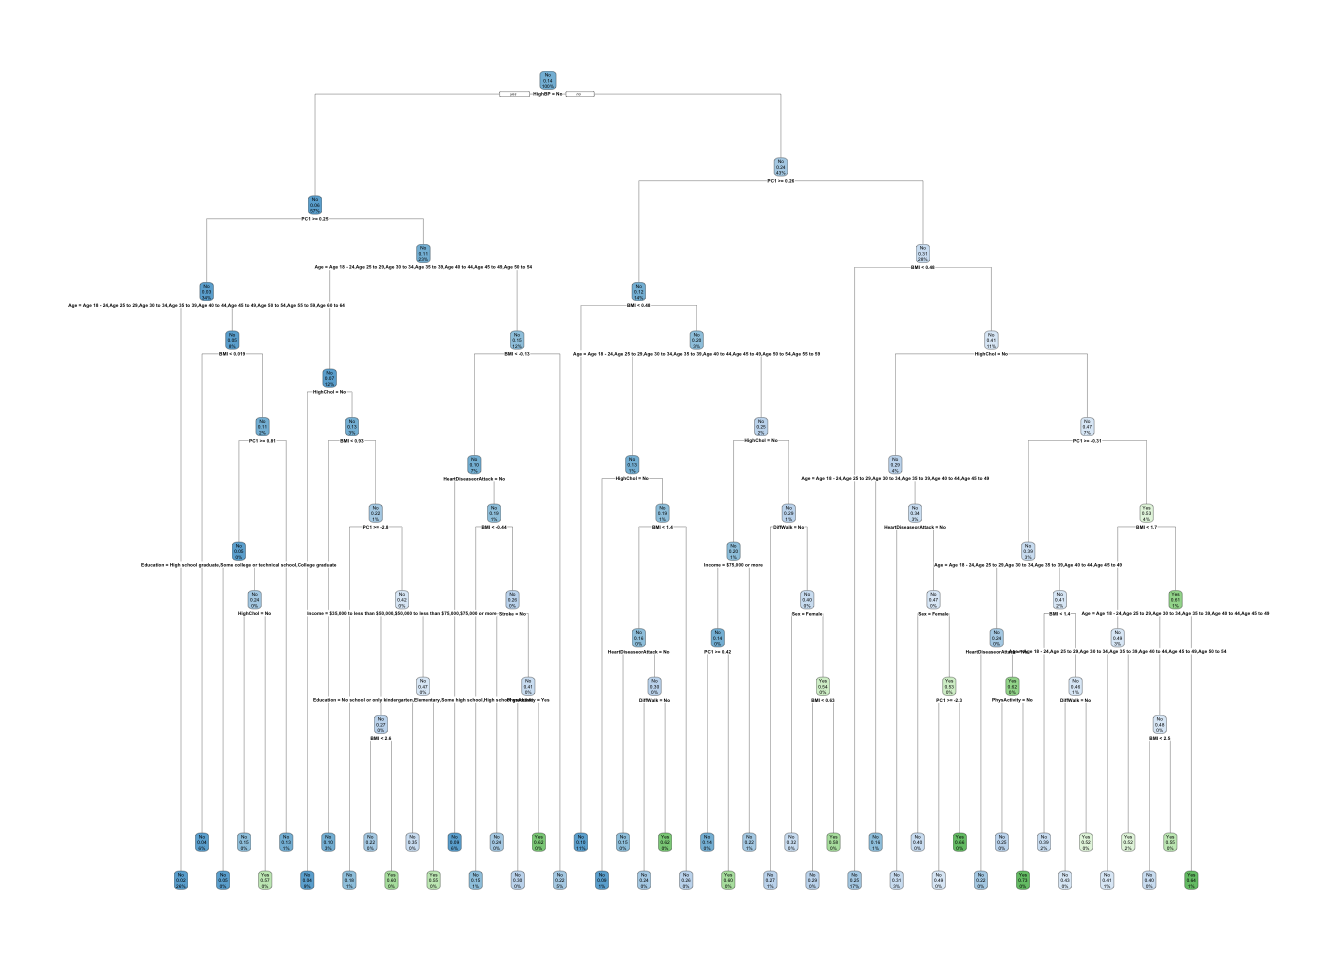
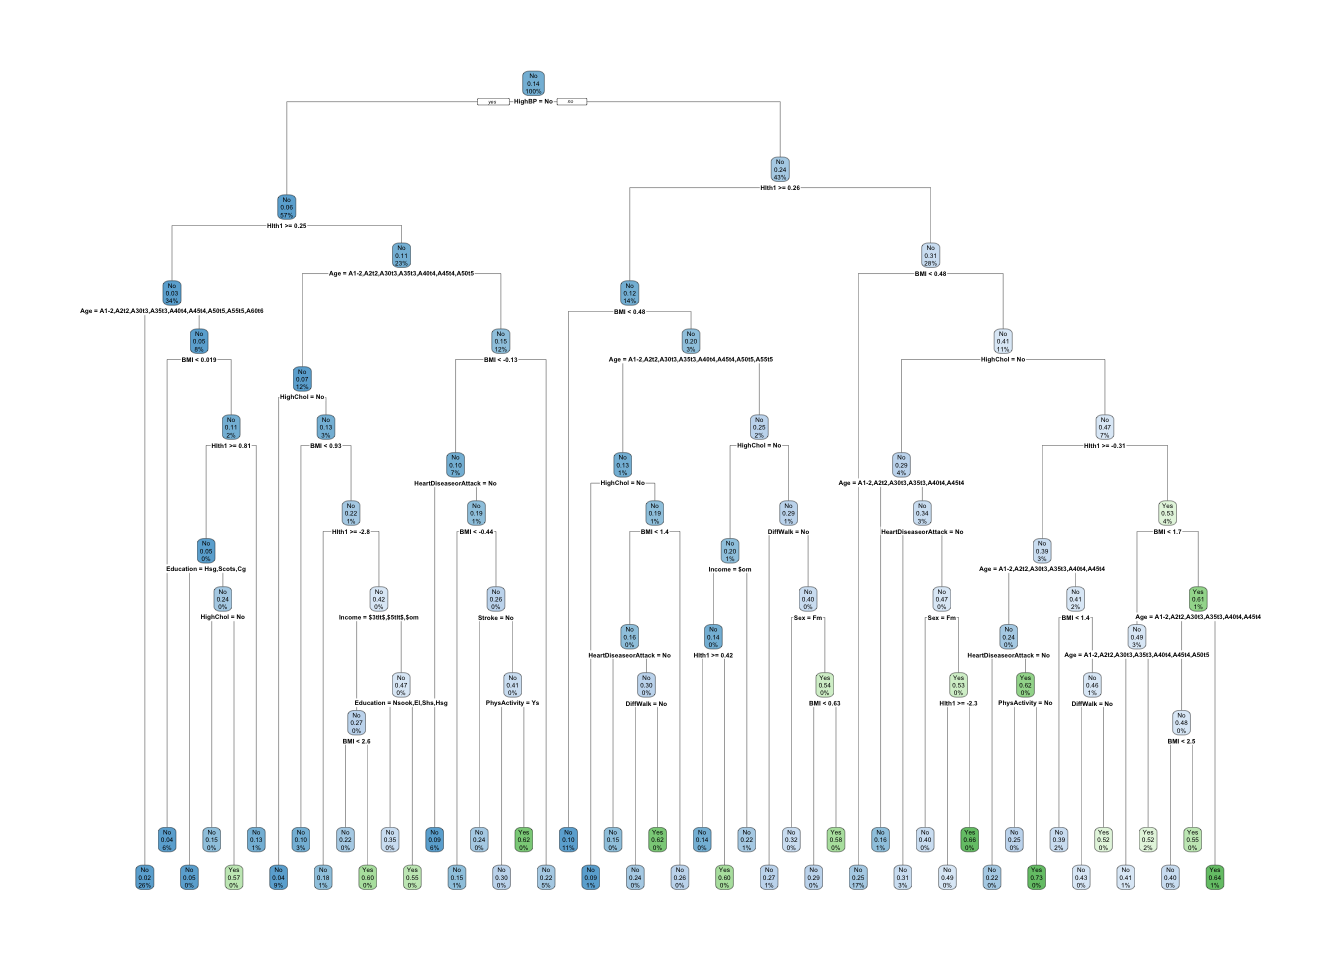
initial models

diff --git a/docs/Modeling.html b/docs/Modeling.html
@@ -207,7 +207,7 @@ pre > code.sourceCode > span > a:first-child::before { text-decoration: underlin
 <span id="cb6-2"><a href="#cb6-2" aria-hidden="true" tabindex="-1"></a>  <span class="fu">recipe</span>(Diabetes <span class="sc">~</span> ., <span class="at">data =</span> diabetes_train) <span class="sc">|&gt;</span></span>
 <span id="cb6-3"><a href="#cb6-3" aria-hidden="true" tabindex="-1"></a>  <span class="fu">step_rm</span>(Fruits<span class="sc">:</span>NoDocbcCost) <span class="sc">|&gt;</span></span>
 <span id="cb6-4"><a href="#cb6-4" aria-hidden="true" tabindex="-1"></a>  <span class="fu">step_normalize</span>(<span class="fu">all_numeric_predictors</span>()) <span class="sc">|&gt;</span></span>
-<span id="cb6-5"><a href="#cb6-5" aria-hidden="true" tabindex="-1"></a>  <span class="fu">step_pca</span>(<span class="fu">ends_with</span>(<span class="st">"Hlth"</span>), <span class="at">num_comp =</span> <span class="dv">1</span>)</span></code><button title="Copy to Clipboard" class="code-copy-button"><i class="bi"></i></button></pre></div>
+<span id="cb6-5"><a href="#cb6-5" aria-hidden="true" tabindex="-1"></a>  <span class="fu">step_pca</span>(<span class="fu">ends_with</span>(<span class="st">"Hlth"</span>), <span class="at">num_comp =</span> <span class="dv">1</span>, <span class="at">prefix =</span> <span class="st">"Hlth"</span>)</span></code><button title="Copy to Clipboard" class="code-copy-button"><i class="bi"></i></button></pre></div>
 </div>
 <div class="cell">
 <div class="sourceCode cell-code" id="cb7"><pre class="sourceCode r code-with-copy"><code class="sourceCode r"><span id="cb7-1"><a href="#cb7-1" aria-hidden="true" tabindex="-1"></a>diabetes_rec <span class="sc">|&gt;</span></span>
@@ -229,7 +229,7 @@ pre > code.sourceCode > span > a:first-child::before { text-decoration: underlin
 10 Yes    Yes      Yes        1.47   Yes    No     No                  
 # ℹ 177,565 more rows
 # ℹ 8 more variables: PhysActivity &lt;fct&gt;, DiffWalk &lt;fct&gt;, Sex &lt;fct&gt;, Age &lt;ord&gt;,
-#   Education &lt;ord&gt;, Income &lt;ord&gt;, Diabetes &lt;fct&gt;, PC1 &lt;dbl&gt;</code></pre>
+#   Education &lt;ord&gt;, Income &lt;ord&gt;, Diabetes &lt;fct&gt;, Hlth1 &lt;dbl&gt;</code></pre>
 </div>
 </div>
 <p>Define metrics set.</p>
@@ -353,7 +353,7 @@ pre > code.sourceCode > span > a:first-child::before { text-decoration: underlin
 <div class="sourceCode cell-code" id="cb20"><pre class="sourceCode r code-with-copy"><code class="sourceCode r"><span id="cb20-1"><a href="#cb20-1" aria-hidden="true" tabindex="-1"></a>diabetes_tree_final_fit <span class="sc">|&gt;</span></span>
 <span id="cb20-2"><a href="#cb20-2" aria-hidden="true" tabindex="-1"></a>  <span class="fu">extract_workflow</span>() <span class="sc">|&gt;</span></span>
 <span id="cb20-3"><a href="#cb20-3" aria-hidden="true" tabindex="-1"></a>  <span class="fu">extract_fit_engine</span>() <span class="sc">|&gt;</span></span>
-<span id="cb20-4"><a href="#cb20-4" aria-hidden="true" tabindex="-1"></a>  rpart.plot<span class="sc">::</span><span class="fu">rpart.plot</span>(<span class="at">roundint =</span> F)</span></code><button title="Copy to Clipboard" class="code-copy-button"><i class="bi"></i></button></pre></div>
+<span id="cb20-4"><a href="#cb20-4" aria-hidden="true" tabindex="-1"></a>  rpart.plot<span class="sc">::</span><span class="fu">rpart.plot</span>(<span class="at">roundint =</span> F, <span class="at">faclen =</span> <span class="dv">2</span>)</span></code><button title="Copy to Clipboard" class="code-copy-button"><i class="bi"></i></button></pre></div>
 <div class="cell-output-display">
 <div>
 <figure class="figure">
@@ -405,8 +405,8 @@ pre > code.sourceCode > span > a:first-child::before { text-decoration: underlin
 <span id="cb25-4"><a href="#cb25-4" aria-hidden="true" tabindex="-1"></a></span>
 <span id="cb25-5"><a href="#cb25-5" aria-hidden="true" tabindex="-1"></a>rf_fits <span class="ot">&lt;-</span></span>
 <span id="cb25-6"><a href="#cb25-6" aria-hidden="true" tabindex="-1"></a>  diabetes_rf_wfl <span class="sc">|&gt;</span> </span>
-<span id="cb25-7"><a href="#cb25-7" aria-hidden="true" tabindex="-1"></a>  <span class="fu">tune_random</span>(<span class="at">resamples =</span> diabetes_5_fold, <span class="at">grid =</span> <span class="dv">5</span>,</span>
-<span id="cb25-8"><a href="#cb25-8" aria-hidden="true" tabindex="-1"></a>              <span class="at">metrics =</span> <span class="fu">metric_set</span>(mn_log_loss))</span>
+<span id="cb25-7"><a href="#cb25-7" aria-hidden="true" tabindex="-1"></a>  <span class="fu">tune_grid</span>(<span class="at">resamples =</span> diabetes_5_fold, <span class="at">grid =</span> <span class="dv">5</span>,</span>
+<span id="cb25-8"><a href="#cb25-8" aria-hidden="true" tabindex="-1"></a>            <span class="at">metrics =</span> <span class="fu">metric_set</span>(mn_log_loss))</span>
 <span id="cb25-9"><a href="#cb25-9" aria-hidden="true" tabindex="-1"></a></span>
 <span id="cb25-10"><a href="#cb25-10" aria-hidden="true" tabindex="-1"></a><span class="fu">plan</span>(sequential)</span></code><button title="Copy to Clipboard" class="code-copy-button"><i class="bi"></i></button></pre></div>
 </div>
@@ -416,52 +416,109 @@ pre > code.sourceCode > span > a:first-child::before { text-decoration: underlin
 <span id="cb26-2"><a href="#cb26-2" aria-hidden="true" tabindex="-1"></a>  <span class="fu">collect_metrics</span>() <span class="sc">|&gt;</span></span>
 <span id="cb26-3"><a href="#cb26-3" aria-hidden="true" tabindex="-1"></a>  <span class="fu">filter</span>(.metric <span class="sc">==</span> <span class="st">"mn_log_loss"</span>) <span class="sc">|&gt;</span></span>
 <span id="cb26-4"><a href="#cb26-4" aria-hidden="true" tabindex="-1"></a>  <span class="fu">arrange</span>(mean)</span></code><button title="Copy to Clipboard" class="code-copy-button"><i class="bi"></i></button></pre></div>
+<div class="cell-output cell-output-stdout">
+<pre><code># A tibble: 5 × 8
+   mtry min_n .metric     .estimator  mean     n std_err .config             
+  &lt;int&gt; &lt;int&gt; &lt;chr&gt;       &lt;chr&gt;      &lt;dbl&gt; &lt;int&gt;   &lt;dbl&gt; &lt;chr&gt;               
+1     3     3 mn_log_loss binary     0.321     5 0.00164 Preprocessor1_Model3
+2     5    22 mn_log_loss binary     0.325     5 0.00168 Preprocessor1_Model4
+3    11    38 mn_log_loss binary     0.331     5 0.00167 Preprocessor1_Model1
+4     7    17 mn_log_loss binary     0.333     5 0.00126 Preprocessor1_Model5
+5    13    27 mn_log_loss binary     0.338     5 0.00203 Preprocessor1_Model2</code></pre>
+</div>
 </div>
 <p>Identify parameter combination with lowest Log Loss.</p>
 <div class="cell">
-<div class="sourceCode cell-code" id="cb27"><pre class="sourceCode r code-with-copy"><code class="sourceCode r"><span id="cb27-1"><a href="#cb27-1" aria-hidden="true" tabindex="-1"></a>rf_best_params <span class="ot">&lt;-</span></span>
-<span id="cb27-2"><a href="#cb27-2" aria-hidden="true" tabindex="-1"></a>  rf_fits <span class="sc">|&gt;</span></span>
-<span id="cb27-3"><a href="#cb27-3" aria-hidden="true" tabindex="-1"></a>  <span class="fu">select_best</span>(<span class="at">metric =</span> <span class="st">"mn_log_loss"</span>)</span>
-<span id="cb27-4"><a href="#cb27-4" aria-hidden="true" tabindex="-1"></a>rf_best_params</span></code><button title="Copy to Clipboard" class="code-copy-button"><i class="bi"></i></button></pre></div>
+<div class="sourceCode cell-code" id="cb28"><pre class="sourceCode r code-with-copy"><code class="sourceCode r"><span id="cb28-1"><a href="#cb28-1" aria-hidden="true" tabindex="-1"></a>rf_best_params <span class="ot">&lt;-</span></span>
+<span id="cb28-2"><a href="#cb28-2" aria-hidden="true" tabindex="-1"></a>  rf_fits <span class="sc">|&gt;</span></span>
+<span id="cb28-3"><a href="#cb28-3" aria-hidden="true" tabindex="-1"></a>  <span class="fu">select_best</span>(<span class="at">metric =</span> <span class="st">"mn_log_loss"</span>)</span>
+<span id="cb28-4"><a href="#cb28-4" aria-hidden="true" tabindex="-1"></a>rf_best_params</span></code><button title="Copy to Clipboard" class="code-copy-button"><i class="bi"></i></button></pre></div>
+<div class="cell-output cell-output-stdout">
+<pre><code># A tibble: 1 × 3
+   mtry min_n .config             
+  &lt;int&gt; &lt;int&gt; &lt;chr&gt;               
+1     3     3 Preprocessor1_Model3</code></pre>
+</div>
 </div>
 <p>Using the best model, fit the model to the entire training data set using the <code>last_fit()</code> function. Compute the Log Loss and Accuracy metrics on the test set.</p>
 <div class="cell">
-<div class="sourceCode cell-code" id="cb28"><pre class="sourceCode r code-with-copy"><code class="sourceCode r"><span id="cb28-1"><a href="#cb28-1" aria-hidden="true" tabindex="-1"></a>diabetes_rf_final_fit <span class="ot">&lt;-</span></span>
-<span id="cb28-2"><a href="#cb28-2" aria-hidden="true" tabindex="-1"></a>  diabetes_rf_wfl <span class="sc">|&gt;</span></span>
-<span id="cb28-3"><a href="#cb28-3" aria-hidden="true" tabindex="-1"></a>  <span class="fu">finalize_workflow</span>(rf_best_params) <span class="sc">|&gt;</span></span>
-<span id="cb28-4"><a href="#cb28-4" aria-hidden="true" tabindex="-1"></a>  <span class="fu">last_fit</span>(<span class="at">split =</span> diabetes_split, <span class="at">metrics =</span> metrics_set)</span>
-<span id="cb28-5"><a href="#cb28-5" aria-hidden="true" tabindex="-1"></a></span>
-<span id="cb28-6"><a href="#cb28-6" aria-hidden="true" tabindex="-1"></a>diabetes_rf_final_fit <span class="sc">|&gt;</span></span>
-<span id="cb28-7"><a href="#cb28-7" aria-hidden="true" tabindex="-1"></a>  <span class="fu">collect_metrics</span>()</span></code><button title="Copy to Clipboard" class="code-copy-button"><i class="bi"></i></button></pre></div>
+<div class="sourceCode cell-code" id="cb30"><pre class="sourceCode r code-with-copy"><code class="sourceCode r"><span id="cb30-1"><a href="#cb30-1" aria-hidden="true" tabindex="-1"></a>diabetes_rf_final_fit <span class="ot">&lt;-</span></span>
+<span id="cb30-2"><a href="#cb30-2" aria-hidden="true" tabindex="-1"></a>  diabetes_rf_wfl <span class="sc">|&gt;</span></span>
+<span id="cb30-3"><a href="#cb30-3" aria-hidden="true" tabindex="-1"></a>  <span class="fu">finalize_workflow</span>(rf_best_params) <span class="sc">|&gt;</span></span>
+<span id="cb30-4"><a href="#cb30-4" aria-hidden="true" tabindex="-1"></a>  <span class="fu">last_fit</span>(<span class="at">split =</span> diabetes_split, <span class="at">metrics =</span> metrics_set)</span>
+<span id="cb30-5"><a href="#cb30-5" aria-hidden="true" tabindex="-1"></a></span>
+<span id="cb30-6"><a href="#cb30-6" aria-hidden="true" tabindex="-1"></a>diabetes_rf_final_fit <span class="sc">|&gt;</span></span>
+<span id="cb30-7"><a href="#cb30-7" aria-hidden="true" tabindex="-1"></a>  <span class="fu">collect_metrics</span>()</span></code><button title="Copy to Clipboard" class="code-copy-button"><i class="bi"></i></button></pre></div>
+<div class="cell-output cell-output-stdout">
+<pre><code># A tibble: 5 × 4
+  .metric     .estimator .estimate .config             
+  &lt;chr&gt;       &lt;chr&gt;          &lt;dbl&gt; &lt;chr&gt;               
+1 accuracy    binary         0.864 Preprocessor1_Model1
+2 spec        binary         0.126 Preprocessor1_Model1
+3 sens        binary         0.983 Preprocessor1_Model1
+4 mn_log_loss binary         0.321 Preprocessor1_Model1
+5 roc_auc     binary         0.817 Preprocessor1_Model1</code></pre>
+</div>
 </div>
 <p>Produce a variable importance plot.</p>
 <div class="cell">
-<div class="sourceCode cell-code" id="cb29"><pre class="sourceCode r code-with-copy"><code class="sourceCode r"><span id="cb29-1"><a href="#cb29-1" aria-hidden="true" tabindex="-1"></a>diabetes_rf_final_model <span class="ot">&lt;-</span> <span class="fu">extract_fit_engine</span>(diabetes_rf_final_fit) </span>
-<span id="cb29-2"><a href="#cb29-2" aria-hidden="true" tabindex="-1"></a>diabetes_rf_final_model <span class="sc">|&gt;</span></span>
-<span id="cb29-3"><a href="#cb29-3" aria-hidden="true" tabindex="-1"></a>  <span class="fu">vip</span>(<span class="at">num_features =</span> <span class="dv">22</span>)</span></code><button title="Copy to Clipboard" class="code-copy-button"><i class="bi"></i></button></pre></div>
+<div class="sourceCode cell-code" id="cb32"><pre class="sourceCode r code-with-copy"><code class="sourceCode r"><span id="cb32-1"><a href="#cb32-1" aria-hidden="true" tabindex="-1"></a>diabetes_rf_final_model <span class="ot">&lt;-</span> <span class="fu">extract_fit_engine</span>(diabetes_rf_final_fit) </span>
+<span id="cb32-2"><a href="#cb32-2" aria-hidden="true" tabindex="-1"></a>diabetes_rf_final_model <span class="sc">|&gt;</span></span>
+<span id="cb32-3"><a href="#cb32-3" aria-hidden="true" tabindex="-1"></a>  <span class="fu">vip</span>(<span class="at">num_features =</span> <span class="dv">22</span>)</span></code><button title="Copy to Clipboard" class="code-copy-button"><i class="bi"></i></button></pre></div>
+<div class="cell-output-display">
+<div>
+<figure class="figure">
+<p><img src="Modeling_files/figure-html/unnamed-chunk-23-1.png" class="img-fluid figure-img" width="672"></p>
+</figure>
+</div>
+</div>
 </div>
 <p>Collect final Log Loss and Accuracy metrics for best Random Forest model.</p>
 <div class="cell">
-<div class="sourceCode cell-code" id="cb30"><pre class="sourceCode r code-with-copy"><code class="sourceCode r"><span id="cb30-1"><a href="#cb30-1" aria-hidden="true" tabindex="-1"></a>rf_metrics <span class="ot">&lt;-</span></span>
-<span id="cb30-2"><a href="#cb30-2" aria-hidden="true" tabindex="-1"></a>  diabetes_rf_final_fit <span class="sc">|&gt;</span></span>
-<span id="cb30-3"><a href="#cb30-3" aria-hidden="true" tabindex="-1"></a>  <span class="fu">collect_metrics</span>()</span>
-<span id="cb30-4"><a href="#cb30-4" aria-hidden="true" tabindex="-1"></a>rf_metrics</span></code><button title="Copy to Clipboard" class="code-copy-button"><i class="bi"></i></button></pre></div>
+<div class="sourceCode cell-code" id="cb33"><pre class="sourceCode r code-with-copy"><code class="sourceCode r"><span id="cb33-1"><a href="#cb33-1" aria-hidden="true" tabindex="-1"></a>rf_metrics <span class="ot">&lt;-</span></span>
+<span id="cb33-2"><a href="#cb33-2" aria-hidden="true" tabindex="-1"></a>  diabetes_rf_final_fit <span class="sc">|&gt;</span></span>
+<span id="cb33-3"><a href="#cb33-3" aria-hidden="true" tabindex="-1"></a>  <span class="fu">collect_metrics</span>()</span>
+<span id="cb33-4"><a href="#cb33-4" aria-hidden="true" tabindex="-1"></a>rf_metrics</span></code><button title="Copy to Clipboard" class="code-copy-button"><i class="bi"></i></button></pre></div>
+<div class="cell-output cell-output-stdout">
+<pre><code># A tibble: 5 × 4
+  .metric     .estimator .estimate .config             
+  &lt;chr&gt;       &lt;chr&gt;          &lt;dbl&gt; &lt;chr&gt;               
+1 accuracy    binary         0.864 Preprocessor1_Model1
+2 spec        binary         0.126 Preprocessor1_Model1
+3 sens        binary         0.983 Preprocessor1_Model1
+4 mn_log_loss binary         0.321 Preprocessor1_Model1
+5 roc_auc     binary         0.817 Preprocessor1_Model1</code></pre>
+</div>
 </div>
 </section>
 <section id="select-the-best-model" class="level2">
 <h2 class="anchored" data-anchor-id="select-the-best-model">Select the Best Model</h2>
 <p>Compare all final models using both Log Loss and ROC AUC</p>
 <div class="cell">
-<div class="sourceCode cell-code" id="cb31"><pre class="sourceCode r code-with-copy"><code class="sourceCode r"><span id="cb31-1"><a href="#cb31-1" aria-hidden="true" tabindex="-1"></a><span class="fu">rbind</span>(mlr_metrics, lasso_metrics, tree_metrics, bag_metrics, rf_metrics) <span class="sc">|&gt;</span></span>
-<span id="cb31-2"><a href="#cb31-2" aria-hidden="true" tabindex="-1"></a>  <span class="fu">filter</span>(.metric <span class="sc">==</span> <span class="st">"mn_log_loss"</span>) <span class="sc">|&gt;</span></span>
-<span id="cb31-3"><a href="#cb31-3" aria-hidden="true" tabindex="-1"></a>  <span class="fu">mutate</span>(<span class="at">model =</span> <span class="fu">c</span>(<span class="st">"Classification Tree"</span>, <span class="st">"Random Forest"</span>)) <span class="sc">|&gt;</span></span>
-<span id="cb31-4"><a href="#cb31-4" aria-hidden="true" tabindex="-1"></a>  <span class="fu">select</span>(model, <span class="st">"mean_mn_log_loss"</span> <span class="ot">=</span> .estimate)</span></code><button title="Copy to Clipboard" class="code-copy-button"><i class="bi"></i></button></pre></div>
+<div class="sourceCode cell-code" id="cb35"><pre class="sourceCode r code-with-copy"><code class="sourceCode r"><span id="cb35-1"><a href="#cb35-1" aria-hidden="true" tabindex="-1"></a><span class="fu">rbind</span>(tree_metrics, rf_metrics) <span class="sc">|&gt;</span></span>
+<span id="cb35-2"><a href="#cb35-2" aria-hidden="true" tabindex="-1"></a>  <span class="fu">filter</span>(.metric <span class="sc">==</span> <span class="st">"mn_log_loss"</span>) <span class="sc">|&gt;</span></span>
+<span id="cb35-3"><a href="#cb35-3" aria-hidden="true" tabindex="-1"></a>  <span class="fu">mutate</span>(<span class="at">model =</span> <span class="fu">c</span>(<span class="st">"Classification Tree"</span>, <span class="st">"Random Forest"</span>)) <span class="sc">|&gt;</span></span>
+<span id="cb35-4"><a href="#cb35-4" aria-hidden="true" tabindex="-1"></a>  <span class="fu">select</span>(model, <span class="st">"mean_mn_log_loss"</span> <span class="ot">=</span> .estimate)</span></code><button title="Copy to Clipboard" class="code-copy-button"><i class="bi"></i></button></pre></div>
+<div class="cell-output cell-output-stdout">
+<pre><code># A tibble: 2 × 2
+  model               mean_mn_log_loss
+  &lt;chr&gt;                          &lt;dbl&gt;
+1 Classification Tree            0.335
+2 Random Forest                  0.321</code></pre>
+</div>
 </div>
 <div class="cell">
-<div class="sourceCode cell-code" id="cb32"><pre class="sourceCode r code-with-copy"><code class="sourceCode r"><span id="cb32-1"><a href="#cb32-1" aria-hidden="true" tabindex="-1"></a><span class="fu">rbind</span>(mlr_metrics, lasso_metrics, tree_metrics, bag_metrics, rf_metrics) <span class="sc">|&gt;</span></span>
-<span id="cb32-2"><a href="#cb32-2" aria-hidden="true" tabindex="-1"></a>  <span class="fu">filter</span>(.metric <span class="sc">==</span> <span class="st">"roc_auc"</span>) <span class="sc">|&gt;</span></span>
-<span id="cb32-3"><a href="#cb32-3" aria-hidden="true" tabindex="-1"></a>  <span class="fu">mutate</span>(<span class="at">model =</span> <span class="fu">c</span>(<span class="st">"Classification Tree"</span>, <span class="st">"Random Forest"</span>)) <span class="sc">|&gt;</span></span>
-<span id="cb32-4"><a href="#cb32-4" aria-hidden="true" tabindex="-1"></a>  <span class="fu">select</span>(model, <span class="st">"mean_roc_auc"</span> <span class="ot">=</span> .estimate)</span></code><button title="Copy to Clipboard" class="code-copy-button"><i class="bi"></i></button></pre></div>
+<div class="sourceCode cell-code" id="cb37"><pre class="sourceCode r code-with-copy"><code class="sourceCode r"><span id="cb37-1"><a href="#cb37-1" aria-hidden="true" tabindex="-1"></a><span class="fu">rbind</span>(tree_metrics, rf_metrics) <span class="sc">|&gt;</span></span>
+<span id="cb37-2"><a href="#cb37-2" aria-hidden="true" tabindex="-1"></a>  <span class="fu">filter</span>(.metric <span class="sc">==</span> <span class="st">"roc_auc"</span>) <span class="sc">|&gt;</span></span>
+<span id="cb37-3"><a href="#cb37-3" aria-hidden="true" tabindex="-1"></a>  <span class="fu">mutate</span>(<span class="at">model =</span> <span class="fu">c</span>(<span class="st">"Classification Tree"</span>, <span class="st">"Random Forest"</span>)) <span class="sc">|&gt;</span></span>
+<span id="cb37-4"><a href="#cb37-4" aria-hidden="true" tabindex="-1"></a>  <span class="fu">select</span>(model, <span class="st">"mean_roc_auc"</span> <span class="ot">=</span> .estimate)</span></code><button title="Copy to Clipboard" class="code-copy-button"><i class="bi"></i></button></pre></div>
+<div class="cell-output cell-output-stdout">
+<pre><code># A tibble: 2 × 2
+  model               mean_roc_auc
+  &lt;chr&gt;                      &lt;dbl&gt;
+1 Classification Tree        0.788
+2 Random Forest              0.817</code></pre>
+</div>
 </div>
 
 
